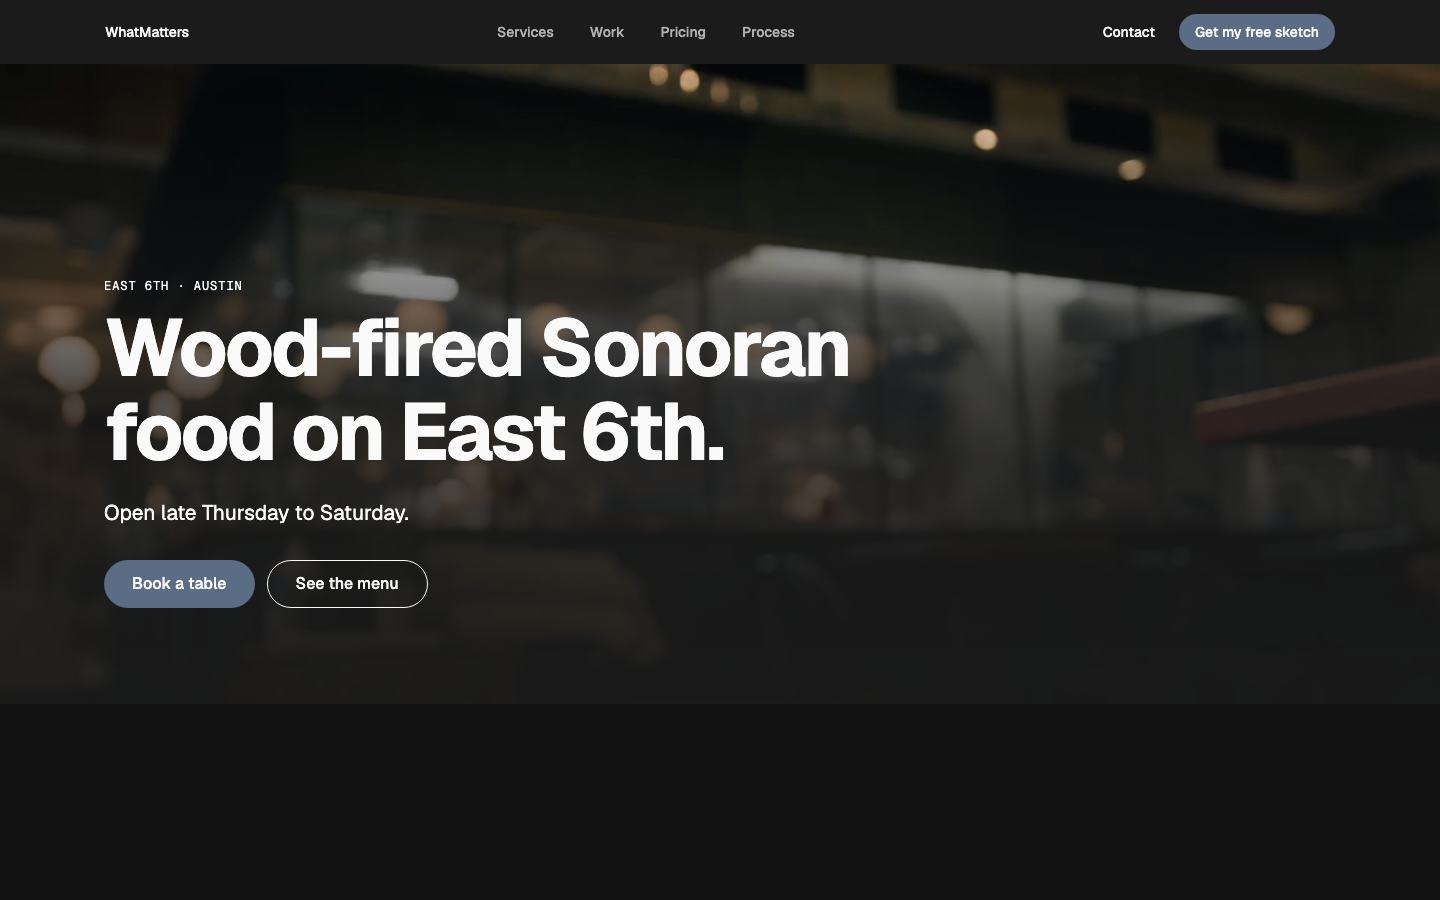
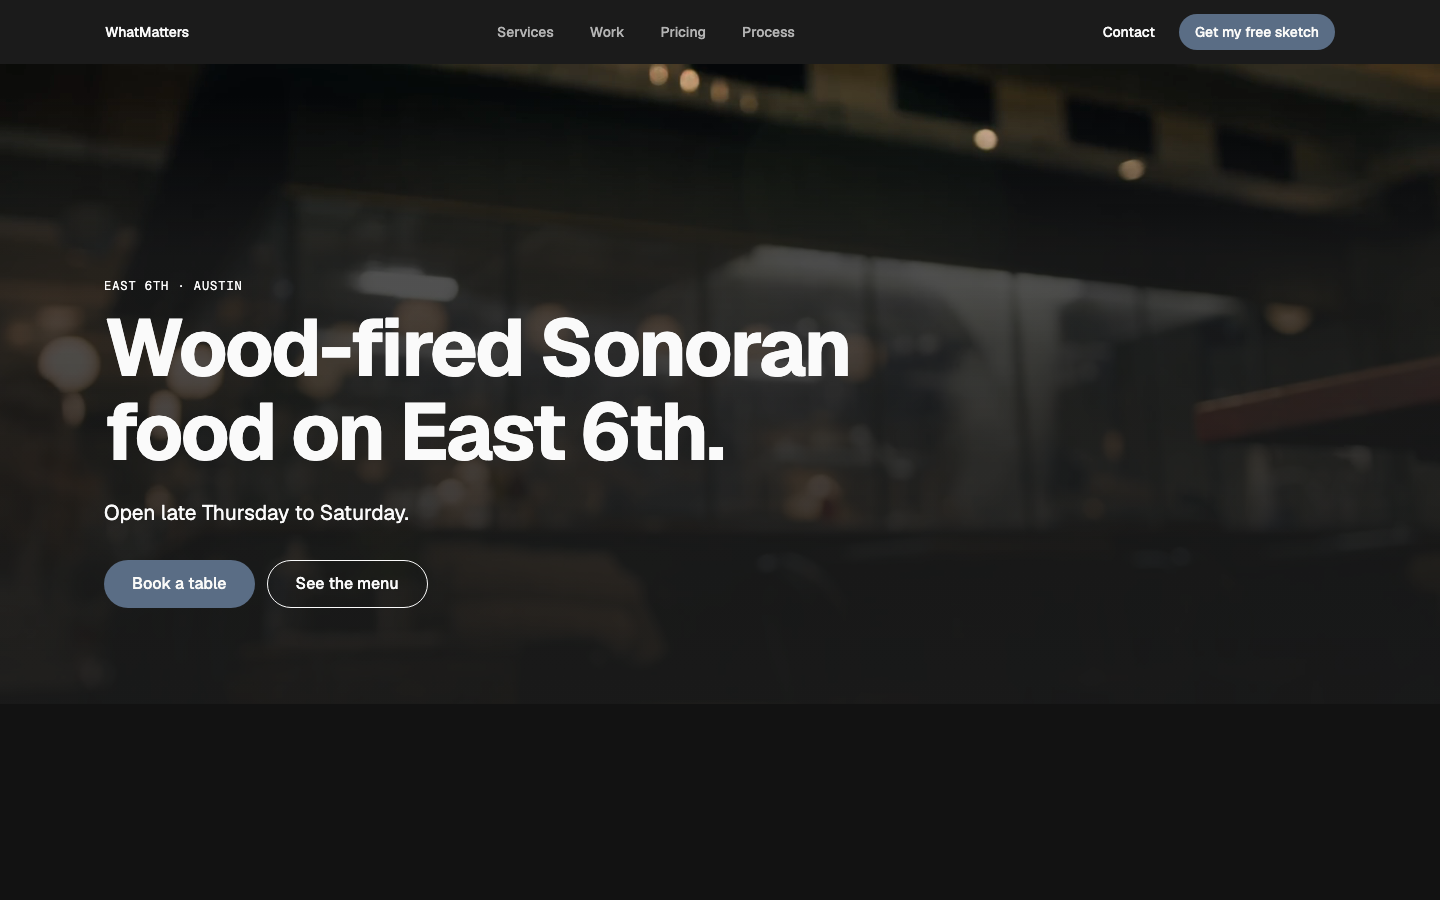
Hero — Stage: Product Designer's review
- Window on a plain page only (dropped Video · window); follows start alignment (full grid)
- visualDecorative (default true) instead of always aria-hidden
- CTAs full width and stacked below sm
- Video poster required
- Scrim 74% up to 70%: headline >= 4.08:1 over 9 video frames at 390 (was 2.6 once the CTAs stacked);
  eyebrow >= 10.1, outline border >= 14.1
- README: 12-word headline in Adapt it, contrast table, new props

diff --git a/patterns/hero/stage/HeroStage.tsx b/patterns/hero/stage/HeroStage.tsx
@@ -23,9 +23,10 @@ export type HeroStageBackdrop =
     }
   | {
       kind: "video";
-      /** A decorative looping video: muted, no controls, its `poster` under reduced motion. */
+      /** A decorative looping video: muted, no controls. */
       src: string;
-      poster?: string;
+      /** Required: what shows before the video loads, under reduced motion and in Safari's low-power mode. */
+      poster: string;
       focus?: string;
     };
 
@@ -46,8 +47,13 @@ export interface HeroStageProps {
   backdrop?: HeroStageBackdrop;
   /** Where the copy sits. Default: `center` on a plain page, `start` over a backdrop. Phones are always `start`. */
   align?: HeroStageAlign;
-  /** Slot, optional: what goes in the framed window (a product shot, a site). Decorative unless it carries content. */
+  /**
+   * Slot, optional: what goes in the framed window (a product shot, a site). Plain page only: over a backdrop the
+   * picture is the visual, and a window on it turns both murky (Product Designer, 2026-10-30), so it's left out.
+   */
   visual?: ReactNode;
+  /** `true` (default): the window is decoration, hidden from screen readers. `false` when it carries content people need. */
+  visualDecorative?: boolean;
   /** Slot, optional: proof under the hero. Usually `<HeroStageLogos logos={…} />`. */
   logos?: ReactNode;
   /**
@@ -75,22 +81,15 @@ const backdropSectionClasses = {
   full: "relative isolate flex w-full flex-col overflow-hidden min-h-[calc(100svh-4rem)]",
 } as const;
 /** The grid over the backdrop: copy at the bottom of the picture, Band `lg` spacing (96, 64 on phones; S8). */
-const backdropGridClasses = {
-  bottom:
-    "grid-page mt-auto w-full !pt-[calc(var(--grid-baseline)*8)] !pb-[calc(var(--grid-baseline)*8)] md:!pt-[calc(var(--leading-base)*4)] md:!pb-[calc(var(--leading-base)*4)]",
-  top: "grid-page w-full !pt-[calc(var(--grid-baseline)*8)] !pb-[calc(var(--grid-baseline)*8)] md:!pt-[calc(var(--leading-base)*4)] md:!pb-[calc(var(--leading-base)*4)]",
-} as const;
+const backdropGridClasses =
+  "grid-page mt-auto w-full !pt-[calc(var(--grid-baseline)*8)] !pb-[calc(var(--grid-baseline)*8)] md:!pt-[calc(var(--leading-base)*4)] md:!pb-[calc(var(--leading-base)*4)]";
 const mediaClasses = "absolute inset-0 -z-10 size-full object-cover";
 /**
- * Scrim in the dark page colour. Bottom-up behind bottom-set copy: the headline clears 3:1 and the lead and buttons
- * 4.5:1 over the brightest frame of the example video, fading clear at the top. With a `visual` the copy sits at
- * the top, so the scrim covers evenly.
+ * Bottom-up scrim in the dark page colour, 74% up to 70% of the height (the copy stacks taller on phones): the
+ * headline clears 4:1 and the eyebrow, lead and buttons 10:1 over the brightest of 9 frames, fading clear at the top.
  */
-const scrimClasses = {
-  bottom:
-    "pointer-events-none absolute inset-0 -z-10 bg-linear-to-t from-[color-mix(in_srgb,var(--color-background-body)_90%,transparent)] via-[color-mix(in_srgb,var(--color-background-body)_74%,transparent)] via-50% to-transparent to-95%",
-  even: "pointer-events-none absolute inset-0 -z-10 bg-[color-mix(in_srgb,var(--color-background-body)_80%,transparent)]",
-} as const;
+const scrimClasses =
+  "pointer-events-none absolute inset-0 -z-10 bg-linear-to-t from-[color-mix(in_srgb,var(--color-background-body)_90%,transparent)] via-[color-mix(in_srgb,var(--color-background-body)_74%,transparent)] via-70% to-transparent to-95%";
 
 /**
  * The copy column. Phones and tablets are always left-aligned: a centred headline runs 3–4 lines there (Headings
@@ -115,15 +114,18 @@ const copyClasses = {
 const headlineClasses = "type-display-1 min-w-0 max-w-[min(16em,100%)] text-balance [overflow-wrap:anywhere]";
 /** Headline → lead 24, regular weight, in ink (Lead L8, Body B9), measure 42rem at most. */
 const leadClasses = "mt-6 max-w-[42rem] text-pretty text-fg type-lead";
-/** Lead → actions 32; primary first (Buttons U8). Centred or end-aligned with the copy from lg. */
+/** Lead → actions 32; primary first (Buttons U8). Full width and stacked below sm, so two pills don't sit at odd widths. */
 const actionsClasses = {
-  start: "mt-8 flex flex-wrap items-center justify-start gap-3",
-  center: "mt-8 flex flex-wrap items-center justify-start gap-3 lg:justify-center",
-  end: "mt-8 flex flex-wrap items-center justify-start gap-3 lg:justify-end",
+  start: "mt-8 flex flex-wrap items-center justify-start gap-3 max-sm:w-full max-sm:flex-col max-sm:items-stretch",
+  center: "mt-8 flex flex-wrap items-center justify-start gap-3 max-sm:w-full max-sm:flex-col max-sm:items-stretch lg:justify-center",
+  end: "mt-8 flex flex-wrap items-center justify-start gap-3 max-sm:w-full max-sm:flex-col max-sm:items-stretch lg:justify-end",
 } as const;
 
-/** The visual spans columns 2–11 at lg. CTAs → visual 64 (plus the grid's row gap). */
-const visualWrapClasses = "relative col-span-full mt-16 lg:col-start-2 lg:col-end-12";
+/** The visual spans columns 2–11 at lg, or 1–12 with start-aligned copy so its edge meets the copy's. CTAs → visual 64. */
+const visualWrapClasses = {
+  center: "relative col-span-full mt-16 lg:col-start-2 lg:col-end-12",
+  start: "relative col-span-full mt-16",
+} as const;
 /**
  * The backlight. `--hero-glow` sets its colour (a pattern knob); default, a light tint of `--color-brand-outline`.
  * A wide radial gradient with eased stops just inside the frame's top, and a halo the shape of the frame.
@@ -149,7 +151,7 @@ const plainBottom = "col-span-full pb-[calc(var(--grid-baseline)*8)] md:pb-[calc
 const cueClasses = "pointer-events-none absolute inset-x-0 bottom-4 flex justify-center text-muted";
 
 /** Decorative looping video: plays only on screen, holds the poster under reduced motion. */
-function BackgroundVideo({ src, poster, focus }: { src: string; poster?: string; focus?: string }) {
+function BackgroundVideo({ src, poster, focus }: { src: string; poster: string; focus?: string }) {
   const ref = useRef<HTMLVideoElement>(null);
   useEffect(() => {
     const video = ref.current;
@@ -194,6 +196,7 @@ export function HeroStage({
   backdrop,
   align,
   visual,
+  visualDecorative = true,
   logos,
   fullHeight = false,
   className,
@@ -239,9 +242,16 @@ export function HeroStage({
     </div>
   );
 
+  if (onBackdrop && visual != null) {
+    console.warn("[Hero — Stage] `visual` is for a plain page; over a backdrop the picture is the visual, so it's left out.");
+  }
   const frameWindow =
-    visual != null ? (
-      <div className={cn(visualWrapClasses, glowColorClasses)} aria-hidden data-hero-visual="">
+    visual != null && !onBackdrop ? (
+      <div
+        className={cn(placed === "start" ? visualWrapClasses.start : visualWrapClasses.center, glowColorClasses)}
+        aria-hidden={visualDecorative || undefined}
+        data-hero-visual=""
+      >
         <div className={glowClasses} />
         <div className={haloClasses} />
         <div className={frameClasses} data-slot="visual" data-slot-optional="">
@@ -274,11 +284,9 @@ export function HeroStage({
               {backdrop.media}
             </div>
           )}
-          <div className={visual != null ? scrimClasses.even : scrimClasses.bottom} />
-          {/* With a window the copy sits at the top of the picture and the window below it; without, the copy sits at the bottom. */}
-          <div className={visual != null ? backdropGridClasses.top : backdropGridClasses.bottom}>
+          <div className={scrimClasses} />
+          <div className={backdropGridClasses}>
             {copy}
-            {frameWindow}
             {proof("backdrop")}
           </div>
           {fullHeight ? (

diff --git a/patterns/hero/stage/example.tsx b/patterns/hero/stage/example.tsx
@@ -1,6 +1,6 @@
 /**
- * Example content for Hero — Stage, in six variants (the gallery's Variant control): the plain page with the
- * framed site sketch and logos, centred or at the start, and the restaurant over its video or photo, at the start,
+ * Example content for Hero — Stage, in five variants (the gallery's Variant control): the plain page with the
+ * framed site sketch and logos, centred or at the start (the window follows the copy), and the restaurant over its video or photo, at the start,
  * centre or end. The picture is Randy's Envato pick ("Blurred Restaurant Interior With Bartender in
  * Background"), licensed for the private gallery and kept in gallery/public/local, never committed here; without
  * it the hero shows the dark page colour under the scrim. Replace every part with the client's own.
@@ -135,7 +135,6 @@ export const meta = {
     { id: "video-start", label: "Video · start" },
     { id: "image-center", label: "Photo · centre" },
     { id: "image-end", label: "Photo · end" },
-    { id: "video-window", label: "Video · window" },
   ],
 };
 
@@ -186,7 +185,6 @@ export const variants: Record<string, Partial<HeroStageProps>> = {
   "video-start": { ...restaurant, backdrop: video, align: "start" },
   "image-center": { ...restaurant, backdrop: photo, align: "center" },
   "image-end": { ...restaurant, backdrop: { ...photo, focus: "30% 50%" }, align: "end" },
-  "video-window": { ...studio, backdrop: video, align: "center", logos: undefined },
 };
 
 /** The variant the gallery asks for (`?variant=` on the frame), else the first. Your page passes props instead. */

diff --git a/patterns/hero/stage/README.md b/patterns/hero/stage/README.md
@@ -3,14 +3,14 @@
 status: draft
 
 One hero for two jobs (Randy, 2026-10-30). It replaces **Hero — Feature Center** and **Hero — Over Media**, which stay in the gallery marked as replaced until this one is approved.
-**File:** `HeroStage.tsx` (copy it). **Example:** `example.tsx`, in six variants (the gallery's **Variant** control). The backdrop variants use Randy's Envato pick ("Blurred Restaurant Interior With Bartender in Background"), licensed for the private gallery and kept in `gallery/public/local/`, never committed here; without it the hero shows the dark page colour under the scrim.
+**File:** `HeroStage.tsx` (copy it). **Example:** `example.tsx`, in five variants (the gallery's **Variant** control). The backdrop variants use Randy's Envato pick ("Blurred Restaurant Interior With Bartender in Background"), licensed for the private gallery and kept in `gallery/public/local/`, never committed here; without it the hero shows the dark page colour under the scrim.
 
 Two choices make the layouts:
 
 - **`backdrop`**: none (the page colour), or a full-width `image` or looping `video` behind the copy under a scrim, in the dark-theme scope.
 - **`align`**: the copy at the `start`, `center` or `end`. `end` only over a backdrop, for a photo whose subject sits on the left: on a plain page right-aligned copy is hard to read (every line starts somewhere else), so `end` falls back to `start` there. Phones and tablets are always `start` (a centred headline runs 3–4 lines there, Headings H8).
 
-The framed product window (`visual`, lit from behind) and the proof row (`logos`) are optional with or without a backdrop.
+The framed product window (`visual`, lit from behind) is for a plain page: over a backdrop the picture is the visual, and a window on it turns both murky. With start-aligned copy the window spans the full grid so its edge meets the copy's. The proof row (`logos`) works with or without a backdrop.
 
 | Light | Dark | Mobile (390) |
 |---|---|---|
@@ -56,32 +56,33 @@ import { HeroStage } from "./HeroStage";
 | `eyebrowHref` | string, optional | Where the eyebrow links |
 | `headline` | ReactNode | The page's only H1: 12 words at most, 2 lines at desktop. WMDS `type-display-1` |
 | `lead` | ReactNode | Optional. 1–2 sentences, in ink |
-| `actions` | slot | The CTA row: one WMDS `<Button role="primary" size="lg">` and at most one `role="outline"` (R2, U7). Over a backdrop the outline's border is the light ink, 3:1 or more |
-| `backdrop` | `{ kind: "image", media, focus? }` or `{ kind: "video", src, poster?, focus? }`, optional | Leave it out for the page colour. `media` is a decorative `<img alt="">` with width and height, cropped to fill. The video is muted, loops, plays only on screen and holds its poster under reduced motion. `focus` keeps a part of the picture in view as it crops |
+| `actions` | slot | The CTA row, full width and stacked below 640px: one WMDS `<Button role="primary" size="lg">` and at most one `role="outline"` (R2, U7). Over a backdrop the outline's border is the light ink, 3:1 or more |
+| `backdrop` | `{ kind: "image", media, focus? }` or `{ kind: "video", src, poster, focus? }`, optional | Leave it out for the page colour. `media` is a decorative `<img alt="">` with width and height, cropped to fill. The video is muted, loops, plays only on screen and holds its poster under reduced motion; `poster` is required (it's what shows before the video loads, under reduced motion and in Safari's low-power mode). `focus` keeps a part of the picture in view as it crops |
 | `align` | `"start"` \| `"center"` \| `"end"` | Default `center` on a plain page, `start` over a backdrop. From desktop the copy takes 8 columns (2 headline lines): start = 1–8, centre = 3–10, end = 5–12. `end` needs a backdrop |
-| `visual` | slot, optional | What goes in the framed window (a product shot, a site). Over a backdrop the copy moves to the top of the picture and the scrim covers evenly |
+| `visual` | slot, optional | What goes in the framed window (a product shot, a site). Plain page only; over a backdrop it's left out (with a console warning). Centred copy: columns 2–11; start: the full grid |
+| `visualDecorative` | boolean, default `true` | The window is decoration, hidden from screen readers. Set `false` when it carries content people need |
 | `logos` | slot, optional | Usually `<HeroStageLogos logos={…} />`: one muted row, 3 per row on phones and 6 from desktop |
 | `fullHeight` | boolean, default `false` | Backdrop only: the screen height less 64px, with a scroll cue (R9, R4) |
 
 ## Contrast (D8, R5)
 
-Over a backdrop the scrim is the dark page colour, 90% at the bottom, 74% halfway, clear at the top; with a `visual` the copy sits at the top and the scrim is an even 80%. Worst pixel behind each part on the example picture (one frame of the video, 2026-10-30):
+Over a backdrop the scrim is the dark page colour: 90% at the bottom, 74% up to 70% of the height, clear at the top (the copy stacks taller on phones, so the scrim reaches higher than Over Media's). Worst pixel behind each part on the example picture; the video measured at 9 frames from 0.5s to 16s (2026-10-30):
 
-| Variant | Headline 1440 / 390 | Lead 1440 / 390 |
-|---|---|---|
-| Video · start | 6.0 / 3.7 | 11.3 / 8.9 |
-| Photo · centre | 4.7 / 3.7 | 13.9 / 12.8 |
-| Photo · end | 4.7 / 3.7 | 12.5 / 12.8 |
-| Video · window | 10.4 / 11.3 | 10.4 / 15.6 |
+| Variant | Headline 1440 / 390 | Eyebrow 1440 / 390 | Outline border 1440 / 390 |
+|---|---|---|---|
+| Video · start | 8.7 / 4.1 | 13.9 / 14.2 | 15.4 / 14.5 |
+| Photo · centre | 8.8 / 4.1 | 10.1 / 14.3 | 15.3 / 14.5 |
+| Photo · end | 8.8 / 7.7 | 15.7 / 18.2 | 16.0 / 14.1 |
 
-The headline is display type, so 3:1 is the floor (WCAG 1.4.3 large text); the lead needs 4.5:1. For your own footage, check the brightest frame, not the poster; if the headline drops under 3:1, raise the scrim's middle stop.
+The headline is display type, so 3:1 is its floor (WCAG 1.4.3 large text); the eyebrow and lead need 4.5:1, the button border 3:1 (1.4.11). For your own footage, check the brightest frame, not the poster; if the headline drops under 3:1, raise the 74% stop.
 
 ## Adapt it
 
 The first item is the example the gallery's Copy prompt uses.
 
 - **Restaurant over its room:** `backdrop={{ kind: "video", … }}`, `align="start"`, no `visual` or `logos`.
-- **Product with proof:** no backdrop, `align="center"`, `visual={<YourScreen />}`, `logos={<HeroStageLogos logos={clients} />}`.
+- **Headline length:** 12 words at most. A 16-word headline runs to 7 lines at desktop and 10 on a phone (Display D6).
+- **Product with proof:** no backdrop, `align="center"` (or `"start"`, and the window spans the grid), `visual={<YourScreen />}`, `logos={<HeroStageLogos logos={clients} />}`.
 - **Subject on the left of the photo:** `align="end"` with a backdrop, and `focus` to keep the subject in view on phones.
 - **Animation:** none beyond the video. A video over 5 seconds that a page needs paused should get a pause control in your page (WCAG 2.2.2).
 
